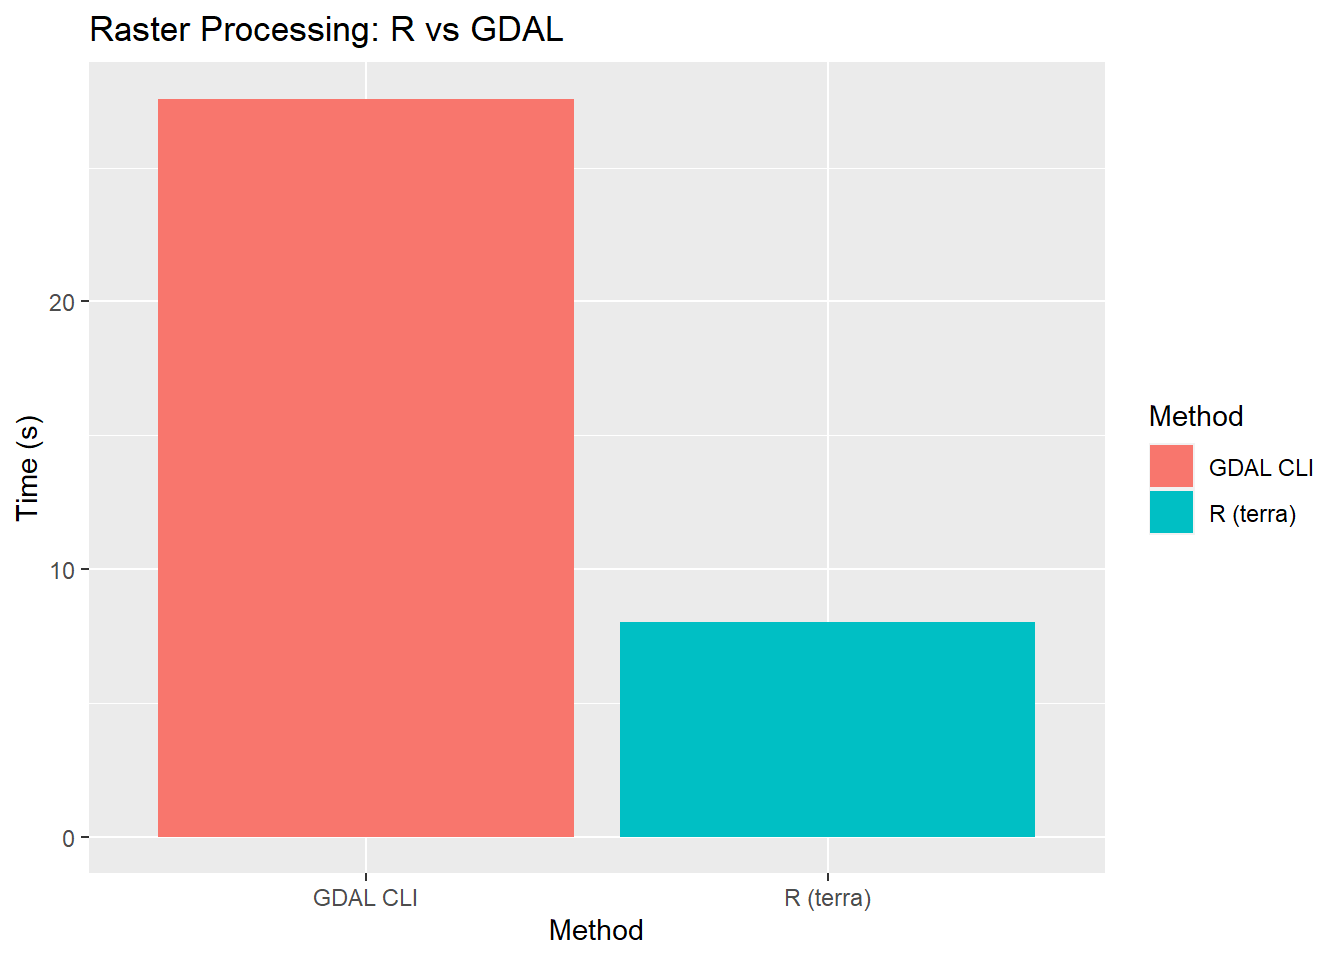
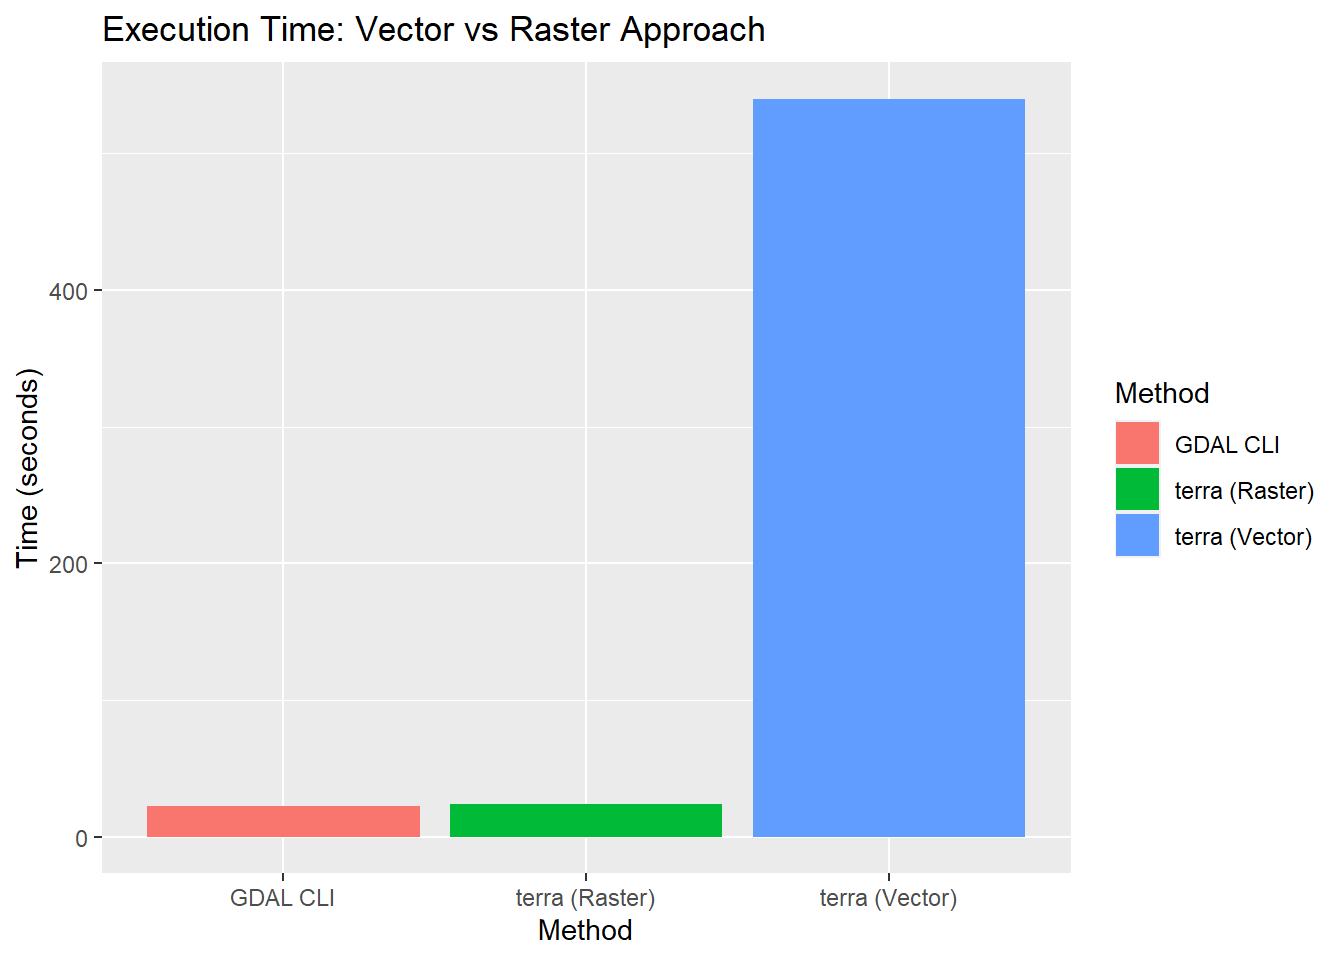
Built site for gh-pages

diff --git a/index.html b/index.html
@@ -125,7 +125,7 @@ Execution time is measured using the <strong>tictoc</strong> package around bash
 <div class="cell">
 <div class="sourceCode cell-code" id="cb5"><pre class="sourceCode r code-with-copy"><code class="sourceCode r"><span id="cb5-1"><a href="#cb5-1" aria-hidden="true" tabindex="-1"></a>tictoc<span class="sc">::</span><span class="fu">toc</span>(<span class="at">log =</span> <span class="cn">TRUE</span>)</span></code><button title="Copy to Clipboard" class="code-copy-button"><i class="bi"></i></button></pre></div>
 <div class="cell-output cell-output-stdout">
-<pre><code>Step 1: Extract forest polygons from GPKG: 4.57 sec elapsed</code></pre>
+<pre><code>Step 1: Extract forest polygons from GPKG: 5.08 sec elapsed</code></pre>
 </div>
 </div>
 <hr>
@@ -144,7 +144,7 @@ Execution time is measured using the <strong>tictoc</strong> package around bash
 <div class="cell">
 <div class="sourceCode cell-code" id="cb10"><pre class="sourceCode r code-with-copy"><code class="sourceCode r"><span id="cb10-1"><a href="#cb10-1" aria-hidden="true" tabindex="-1"></a>tictoc<span class="sc">::</span><span class="fu">toc</span>(<span class="at">log =</span> <span class="cn">TRUE</span>)</span></code><button title="Copy to Clipboard" class="code-copy-button"><i class="bi"></i></button></pre></div>
 <div class="cell-output cell-output-stdout">
-<pre><code>Step 2: Rasterize forest polygons: 11.67 sec elapsed</code></pre>
+<pre><code>Step 2: Rasterize forest polygons: 10.24 sec elapsed</code></pre>
 </div>
 </div>
 <hr>
@@ -163,7 +163,7 @@ Execution time is measured using the <strong>tictoc</strong> package around bash
 <div class="cell">
 <div class="sourceCode cell-code" id="cb15"><pre class="sourceCode r code-with-copy"><code class="sourceCode r"><span id="cb15-1"><a href="#cb15-1" aria-hidden="true" tabindex="-1"></a>tictoc<span class="sc">::</span><span class="fu">toc</span>(<span class="at">log =</span> <span class="cn">TRUE</span>)</span></code><button title="Copy to Clipboard" class="code-copy-button"><i class="bi"></i></button></pre></div>
 <div class="cell-output cell-output-stdout">
-<pre><code>Step 3: Rasterize canton boundaries: 1.83 sec elapsed</code></pre>
+<pre><code>Step 3: Rasterize canton boundaries: 1.8 sec elapsed</code></pre>
 </div>
 </div>
 <hr>
@@ -197,7 +197,7 @@ Execution time is measured using the <strong>tictoc</strong> package around bash
 <span id="cb17-24"><a href="#cb17-24" aria-hidden="true" tabindex="-1"></a></span>
 <span id="cb17-25"><a href="#cb17-25" aria-hidden="true" tabindex="-1"></a>tictoc<span class="sc">::</span><span class="fu">toc</span>(<span class="at">log =</span> <span class="cn">TRUE</span>)</span></code><button title="Copy to Clipboard" class="code-copy-button"><i class="bi"></i></button></pre></div>
 <div class="cell-output cell-output-stdout">
-<pre><code>Step 4: Zonal statistics using terra: 9.51 sec elapsed</code></pre>
+<pre><code>Step 4: Zonal statistics using terra: 5.38 sec elapsed</code></pre>
 </div>
 <div class="sourceCode cell-code" id="cb19"><pre class="sourceCode r code-with-copy"><code class="sourceCode r"><span id="cb19-1"><a href="#cb19-1" aria-hidden="true" tabindex="-1"></a><span class="fu">print</span>(gdal_result)</span></code><button title="Copy to Clipboard" class="code-copy-button"><i class="bi"></i></button></pre></div>
 <div class="cell-output cell-output-stdout">
@@ -238,16 +238,16 @@ Execution time is measured using the <strong>tictoc</strong> package around bash
 <div class="sourceCode cell-code" id="cb21"><pre class="sourceCode r code-with-copy"><code class="sourceCode r"><span id="cb21-1"><a href="#cb21-1" aria-hidden="true" tabindex="-1"></a>tictoc<span class="sc">::</span><span class="fu">tic.log</span>(<span class="at">format =</span> <span class="cn">TRUE</span>)</span></code><button title="Copy to Clipboard" class="code-copy-button"><i class="bi"></i></button></pre></div>
 <div class="cell-output cell-output-stdout">
 <pre><code>[[1]]
-[1] "Step 1: Extract forest polygons from GPKG: 4.57 sec elapsed"
+[1] "Step 1: Extract forest polygons from GPKG: 5.08 sec elapsed"
 
 [[2]]
-[1] "Step 2: Rasterize forest polygons: 11.67 sec elapsed"
+[1] "Step 2: Rasterize forest polygons: 10.24 sec elapsed"
 
 [[3]]
-[1] "Step 3: Rasterize canton boundaries: 1.83 sec elapsed"
+[1] "Step 3: Rasterize canton boundaries: 1.8 sec elapsed"
 
 [[4]]
-[1] "Step 4: Zonal statistics using terra: 9.51 sec elapsed"</code></pre>
+[1] "Step 4: Zonal statistics using terra: 5.38 sec elapsed"</code></pre>
 </div>
 </div>
 <hr>
@@ -255,32 +255,34 @@ Execution time is measured using the <strong>tictoc</strong> package around bash
 <section id="comparison-with-terra-based-approach-task-3.1" class="level2">
 <h2 class="anchored" data-anchor-id="comparison-with-terra-based-approach-task-3.1">Comparison with Terra-based approach (Task 3.1)</h2>
 <div class="cell">
-<div class="sourceCode cell-code" id="cb23"><pre class="sourceCode r code-with-copy"><code class="sourceCode r"><span id="cb23-1"><a href="#cb23-1" aria-hidden="true" tabindex="-1"></a><span class="co"># Beispiel-Zeiten aus deinem vorherigen Terra-Code</span></span>
-<span id="cb23-2"><a href="#cb23-2" aria-hidden="true" tabindex="-1"></a>terra_vector_time <span class="ot">&lt;-</span> <span class="dv">180</span>  <span class="co"># in Sekunden</span></span>
-<span id="cb23-3"><a href="#cb23-3" aria-hidden="true" tabindex="-1"></a>terra_raster_time <span class="ot">&lt;-</span> <span class="dv">8</span>    <span class="co"># in Sekunden</span></span>
-<span id="cb23-4"><a href="#cb23-4" aria-hidden="true" tabindex="-1"></a></span>
-<span id="cb23-5"><a href="#cb23-5" aria-hidden="true" tabindex="-1"></a><span class="co"># Zeit aus GDAL zusammenzählen (unformatiertes Log für Summierung)</span></span>
-<span id="cb23-6"><a href="#cb23-6" aria-hidden="true" tabindex="-1"></a>gdal_rawlog <span class="ot">&lt;-</span> tictoc<span class="sc">::</span><span class="fu">tic.log</span>(<span class="at">format =</span> <span class="cn">FALSE</span>)</span>
-<span id="cb23-7"><a href="#cb23-7" aria-hidden="true" tabindex="-1"></a>gdal_total <span class="ot">&lt;-</span> <span class="fu">sum</span>(<span class="fu">unlist</span>(<span class="fu">lapply</span>(gdal_rawlog, <span class="cf">function</span>(x) x<span class="sc">$</span>toc <span class="sc">-</span> x<span class="sc">$</span>tic)))</span>
-<span id="cb23-8"><a href="#cb23-8" aria-hidden="true" tabindex="-1"></a></span>
-<span id="cb23-9"><a href="#cb23-9" aria-hidden="true" tabindex="-1"></a>comparison <span class="ot">&lt;-</span> <span class="fu">tibble</span>(</span>
-<span id="cb23-10"><a href="#cb23-10" aria-hidden="true" tabindex="-1"></a>  <span class="at">Method =</span> <span class="fu">c</span>(<span class="st">"R (terra)"</span>, <span class="st">"GDAL CLI"</span>),</span>
-<span id="cb23-11"><a href="#cb23-11" aria-hidden="true" tabindex="-1"></a>  <span class="at">Time =</span> <span class="fu">c</span>(terra_raster_time, gdal_total)</span>
-<span id="cb23-12"><a href="#cb23-12" aria-hidden="true" tabindex="-1"></a>)</span>
-<span id="cb23-13"><a href="#cb23-13" aria-hidden="true" tabindex="-1"></a></span>
-<span id="cb23-14"><a href="#cb23-14" aria-hidden="true" tabindex="-1"></a><span class="fu">print</span>(comparison)</span></code><button title="Copy to Clipboard" class="code-copy-button"><i class="bi"></i></button></pre></div>
+<div class="sourceCode cell-code" id="cb23"><pre class="sourceCode r code-with-copy"><code class="sourceCode r"><span id="cb23-1"><a href="#cb23-1" aria-hidden="true" tabindex="-1"></a><span class="co"># Runtime of the terra-based solution from week 2 (see: https://adls-stds2025-felixpascal.github.io/week-2/)</span></span>
+<span id="cb23-2"><a href="#cb23-2" aria-hidden="true" tabindex="-1"></a><span class="co"># This plot shows that the vector approach took over 500 seconds, while the raster-based version was much faster.</span></span>
+<span id="cb23-3"><a href="#cb23-3" aria-hidden="true" tabindex="-1"></a>terra_raster_time <span class="ot">&lt;-</span> <span class="dv">24</span>     <span class="co"># Raster-based time from terra (based on previous work)</span></span>
+<span id="cb23-4"><a href="#cb23-4" aria-hidden="true" tabindex="-1"></a>terra_vector_time <span class="ot">&lt;-</span> <span class="dv">540</span>    <span class="co"># Vector-based time from terra (based on previous work)</span></span>
+<span id="cb23-5"><a href="#cb23-5" aria-hidden="true" tabindex="-1"></a></span>
+<span id="cb23-6"><a href="#cb23-6" aria-hidden="true" tabindex="-1"></a><span class="co"># Time from GDAL-based workflow using tictoc log</span></span>
+<span id="cb23-7"><a href="#cb23-7" aria-hidden="true" tabindex="-1"></a>gdal_rawlog <span class="ot">&lt;-</span> tictoc<span class="sc">::</span><span class="fu">tic.log</span>(<span class="at">format =</span> <span class="cn">FALSE</span>)</span>
+<span id="cb23-8"><a href="#cb23-8" aria-hidden="true" tabindex="-1"></a>gdal_total <span class="ot">&lt;-</span> <span class="fu">sum</span>(<span class="fu">unlist</span>(<span class="fu">lapply</span>(gdal_rawlog, <span class="cf">function</span>(x) x<span class="sc">$</span>toc <span class="sc">-</span> x<span class="sc">$</span>tic)))</span>
+<span id="cb23-9"><a href="#cb23-9" aria-hidden="true" tabindex="-1"></a></span>
+<span id="cb23-10"><a href="#cb23-10" aria-hidden="true" tabindex="-1"></a>comparison <span class="ot">&lt;-</span> <span class="fu">tibble</span>(</span>
+<span id="cb23-11"><a href="#cb23-11" aria-hidden="true" tabindex="-1"></a>  <span class="at">Method =</span> <span class="fu">c</span>(<span class="st">"terra (Vector)"</span>, <span class="st">"terra (Raster)"</span>, <span class="st">"GDAL CLI"</span>),</span>
+<span id="cb23-12"><a href="#cb23-12" aria-hidden="true" tabindex="-1"></a>  <span class="at">Time =</span> <span class="fu">c</span>(terra_vector_time, terra_raster_time, gdal_total)</span>
+<span id="cb23-13"><a href="#cb23-13" aria-hidden="true" tabindex="-1"></a>)</span>
+<span id="cb23-14"><a href="#cb23-14" aria-hidden="true" tabindex="-1"></a></span>
+<span id="cb23-15"><a href="#cb23-15" aria-hidden="true" tabindex="-1"></a><span class="fu">print</span>(comparison)</span></code><button title="Copy to Clipboard" class="code-copy-button"><i class="bi"></i></button></pre></div>
 <div class="cell-output cell-output-stdout">
-<pre><code># A tibble: 2 × 2
-  Method     Time
-  &lt;chr&gt;     &lt;dbl&gt;
-1 R (terra)   8  
-2 GDAL CLI   27.6</code></pre>
+<pre><code># A tibble: 3 × 2
+  Method          Time
+  &lt;chr&gt;          &lt;dbl&gt;
+1 terra (Vector) 540  
+2 terra (Raster)  24  
+3 GDAL CLI        22.5</code></pre>
 </div>
 <div class="sourceCode cell-code" id="cb25"><pre class="sourceCode r code-with-copy"><code class="sourceCode r"><span id="cb25-1"><a href="#cb25-1" aria-hidden="true" tabindex="-1"></a><span class="fu">library</span>(ggplot2)</span>
 <span id="cb25-2"><a href="#cb25-2" aria-hidden="true" tabindex="-1"></a><span class="fu">ggplot</span>(comparison, <span class="fu">aes</span>(<span class="at">x =</span> Method, <span class="at">y =</span> Time, <span class="at">fill =</span> Method)) <span class="sc">+</span></span>
 <span id="cb25-3"><a href="#cb25-3" aria-hidden="true" tabindex="-1"></a>  <span class="fu">geom_col</span>() <span class="sc">+</span></span>
-<span id="cb25-4"><a href="#cb25-4" aria-hidden="true" tabindex="-1"></a>  <span class="fu">ylab</span>(<span class="st">"Time (s)"</span>) <span class="sc">+</span></span>
-<span id="cb25-5"><a href="#cb25-5" aria-hidden="true" tabindex="-1"></a>  <span class="fu">ggtitle</span>(<span class="st">"Raster Processing: R vs GDAL"</span>)</span></code><button title="Copy to Clipboard" class="code-copy-button"><i class="bi"></i></button></pre></div>
+<span id="cb25-4"><a href="#cb25-4" aria-hidden="true" tabindex="-1"></a>  <span class="fu">ylab</span>(<span class="st">"Time (seconds)"</span>) <span class="sc">+</span></span>
+<span id="cb25-5"><a href="#cb25-5" aria-hidden="true" tabindex="-1"></a>  <span class="fu">ggtitle</span>(<span class="st">"Execution Time: Vector vs Raster Approach"</span>)</span></code><button title="Copy to Clipboard" class="code-copy-button"><i class="bi"></i></button></pre></div>
 <div class="cell-output-display">
 <div>
 <figure class="figure">
@@ -293,12 +295,10 @@ Execution time is measured using the <strong>tictoc</strong> package around bash
 </section>
 <section id="conclusion" class="level2">
 <h2 class="anchored" data-anchor-id="conclusion">Conclusion</h2>
-<p>T## Conclusion</p>
-<p>In this task, I used GDAL command-line tools to repeat the forest coverage analysis from previous weeks. The goal was to replace the R-based workflow with GDAL where possible.</p>
-<p>Most steps worked very well with GDAL. I used <code>ogr2ogr</code> to extract only forest polygons and <code>gdal_rasterize</code> to create raster layers for forest areas and cantonal borders. These steps were done in Bash code chunks inside a Quarto document. For the last step (zonal statistics), I used R again, because the preffered solution <code>gdal_zonalstats.py</code> was not available on my system.</p>
-<p>The results look good and make sense. All cantons have realistic forest percentages, and there are no missing values.</p>
-<p>One interesting result is the execution time: even though GDAL is known for being fast, the total GDAL-based workflow took longer than the R version with the <code>terra</code> package. This is probably because each Bash command runs in a separate shell, which adds some overhead. Also, the zonal statistics were still calculated in R, not in pure GDAL.</p>
-<p>Overall, I learned that GDAL works well for raster processing, but for small datasets and in a scripting environment like Quarto, <code>terra</code> in R can be faster - if I did everything correctly. For larger or more complex data, GDAL might show better performance.</p>
+<p>In this task, I tried to repeat the forest coverage analysis from week 1 using GDAL tools instead of R. I used <code>ogr2ogr</code> to extract the forest polygons and <code>gdal_rasterize</code> to turn them into a raster file. The zonal statistics were still done in R, because I couldn’t get <code>gdal_zonalstats.py</code> to work on my system.</p>
+<p>If I’ve done everything correctly, the results look pretty solid. The forest percentages for each canton seem reasonable and similar to what I got before.</p>
+<p>When I compared the execution times, I was a bit surprised: the GDAL-based workflow was faster than the full vector-based approach with <code>terra</code>, but not really faster than the raster-based one. Actually, <code>terra</code> was slightly faster here. I guess this could be because the dataset isn’t very big, and maybe because I ran the GDAL steps inside Quarto, which adds some overhead.</p>
+<p>Overall, I’d say GDAL is useful and worked well for the task, but for smaller datasets and when working directly in R, <code>terra</code> is also very efficient. For bigger projects or fully automated scripts, GDAL might still have an advantage.</p>
 </section>
 </section>
 
